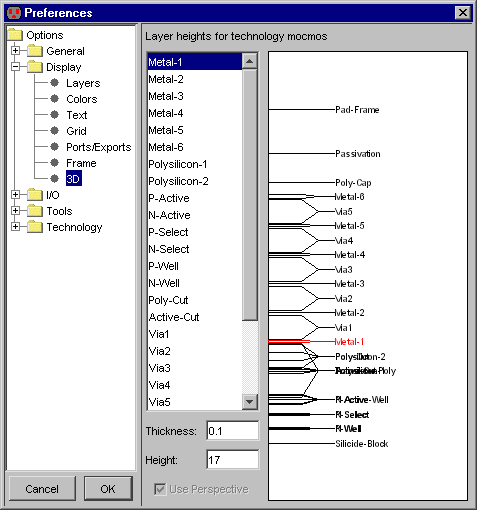
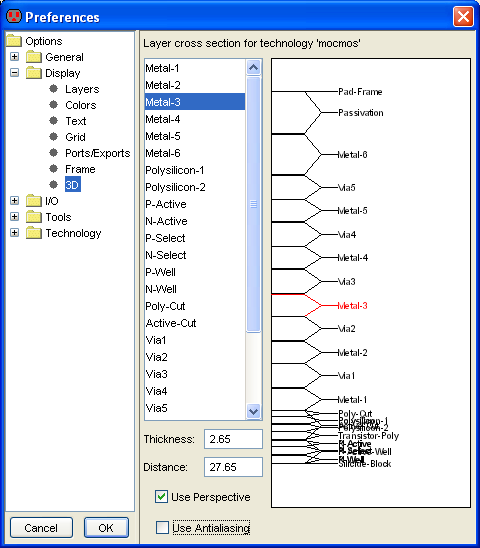
Antialiasing option and lights in 3D view
git-svn-id: https://svn.java.net/svn/electric~svn/trunk@1611 b64ed6c1-75a8-e629-b1da-d0dae74a743a

diff --git a/srcj/com/sun/electric/tool/user/help/helphtml/chap04-11.html b/srcj/com/sun/electric/tool/user/help/helphtml/chap04-11.html
@@ -19,7 +19,11 @@ See <A HREF="chap01-05.html#chap01-05">Section 1-5</A> for details about Electri
 To see a circuit in 3D, use the <B>3D Display</B> command (in menu <B>Window</B>).
 The circuit is displayed in 3D, and mouse movements will rotate, pan, or zoom the circuit.
 Use the left button to rotate and the right button for panning. To zoom in drag the left button by pressing 
-<ALT> key in one direction and the opposite to zoom out. 
+"Alt" key in one direction and the opposite to zoom out.
+<P>
+Two view modes are available: perspective (default) and parallel views. Unselect radio box "Use Perspective" 
+to switch to parallel mode. If available, antialiasing can be turned on by clicking on radio box "Use Antialiasing".
+Due to performance issues, antialiasing is not on by default.
 <P>
 For optimal 3D viewing, the circuit should be centered in the window before issuing the
 <B>3D Display</B> command. 

diff --git a/srcj/com/sun/electric/plugins/j3d/View3DWindow.java b/srcj/com/sun/electric/plugins/j3d/View3DWindow.java
@@ -44,6 +44,7 @@ import com.sun.j3d.utils.universe.SimpleUniverse;
 import com.sun.j3d.utils.universe.ViewingPlatform;
 import com.sun.j3d.utils.geometry.GeometryInfo;
 import com.sun.j3d.utils.geometry.Primitive;
+import com.sun.j3d.utils.geometry.NormalGenerator;
 import com.sun.j3d.utils.behaviors.vp.OrbitBehavior;
 import com.sun.j3d.utils.picking.PickTool;
 import com.sun.j3d.utils.picking.PickResult;
@@ -93,8 +94,11 @@ public class View3DWindow extends JPanel
 	private PickCanvas pickCanvas;
 
 	// Done only once.
-	private static Appearance cellApp = new Appearance();
-	static {
+	/** cell has a unique appearance **/                    private static Appearance cellApp = new Appearance();
+    /** standard colors to be used by materials **/         private static Color3f black = new Color3f(0.0f, 0.0f, 0.0f);
+	/** standard colors to be used by materials **/         private static Color3f white = new Color3f(1.0f, 1.0f, 1.0f);
+
+    static {
 
 		Color3f objColor = new Color3f(Color.GRAY);
 		ColoringAttributes ca = new ColoringAttributes();
@@ -144,8 +148,6 @@ public class View3DWindow extends JPanel
 		add("Center", canvas);
 		canvas.addMouseListener(this);
 
-		System.out.println("Canvas3D supports antialiasing " + canvas.getSceneAntialiasingAvailable());
-
 		// Create a simple scene and attach it to the virtual universe
 		BranchGroup scene = createSceneGraph(cell, infiniteBounds);
 		u = new SimpleUniverse(canvas);
@@ -181,7 +183,8 @@ public class View3DWindow extends JPanel
 		View view = u.getViewer().getView();
 
 		// Too expensive at this point
-		//view.setSceneAntialiasingEnable(true);
+        if (canvas.getSceneAntialiasingAvailable() && User.is3DAntialiasing())
+		    view.setSceneAntialiasingEnable(true);
 
 		// Setting the projection policy
 		view.setProjectionPolicy(User.is3DPerspective()? View.PERSPECTIVE_PROJECTION : View.PARALLEL_PROJECTION);
@@ -261,16 +264,19 @@ public class View3DWindow extends JPanel
 			addArc((ArcInst)arcs.next(), objTrans);
 		}
 
-		// Light
-		Vector3f lightDir = new Vector3f(0.0f, 0.0f, -1.0f);
-		Color3f white = new Color3f(0.7f, 0.7f, 0.0f);
+		// Lights
+        Color3f alColor = new Color3f(0.7f, 0.7f, 0.7f);
+        AmbientLight aLgt = new AmbientLight(alColor);
+		Vector3f lightDir = new Vector3f(-1.0f, -1.0f, -1.0f);
 		DirectionalLight light = new DirectionalLight(white, lightDir);
 
 		// Setting the influencing bounds
 		light.setInfluencingBounds(infiniteBounds);
+	    aLgt.setInfluencingBounds(infiniteBounds);
 		// Allow to turn off light while the scene graph is live
 		light.setCapability(Light.ALLOW_STATE_WRITE);
 		// Add light to the env.
+        objTrans.addChild(aLgt);
 		objTrans.addChild(light);
 
 		// Picking tools
@@ -405,35 +411,37 @@ public class View3DWindow extends JPanel
 	public void addPolyhedron(Rectangle2D bounds, double distance, double thickness,
 	                          Appearance ap, TransformGroup objTrans)
 	{
-			GeometryInfo gi = new GeometryInfo(GeometryInfo.QUAD_ARRAY);
-			double height = thickness + distance;
-			Point3d[] pts = new Point3d[8];
-			pts[0] = new Point3d(bounds.getMinX(), bounds.getMinY(), distance);
-			pts[1] = new Point3d(bounds.getMinX(), bounds.getMaxY(), distance);
-			pts[2] = new Point3d(bounds.getMaxX(), bounds.getMaxY(), distance);
-			pts[3] = new Point3d(bounds.getMaxX(), bounds.getMinY(), distance);
-			pts[4] = new Point3d(bounds.getMinX(), bounds.getMinY(), height);
-			pts[5] = new Point3d(bounds.getMinX(), bounds.getMaxY(), height);
-			pts[6] = new Point3d(bounds.getMaxX(), bounds.getMaxY(), height);
-			pts[7] = new Point3d(bounds.getMaxX(), bounds.getMinY(), height);
-			int[] indices = {0, 1, 2, 3, /* bottom z */
-			                 0, 4, 5, 1, /* back y */
-			                 0, 3, 7, 4, /* back x */
-			                 1, 5, 6, 2, /* front x */
-			                 2, 6, 7, 3, /* front y */
-			                 4, 7, 6, 5}; /* top z */
-			gi.setCoordinates(pts);
-			gi.setCoordinateIndices(indices);
-			GeometryArray c = gi.getGeometryArray();
-            c.setCapability(GeometryArray.ALLOW_INTERSECT);
+        GeometryInfo gi = new GeometryInfo(GeometryInfo.QUAD_ARRAY);
+        double height = thickness + distance;
+        Point3d[] pts = new Point3d[8];
+        pts[0] = new Point3d(bounds.getMinX(), bounds.getMinY(), distance);
+        pts[1] = new Point3d(bounds.getMinX(), bounds.getMaxY(), distance);
+        pts[2] = new Point3d(bounds.getMaxX(), bounds.getMaxY(), distance);
+        pts[3] = new Point3d(bounds.getMaxX(), bounds.getMinY(), distance);
+        pts[4] = new Point3d(bounds.getMinX(), bounds.getMinY(), height);
+        pts[5] = new Point3d(bounds.getMinX(), bounds.getMaxY(), height);
+        pts[6] = new Point3d(bounds.getMaxX(), bounds.getMaxY(), height);
+        pts[7] = new Point3d(bounds.getMaxX(), bounds.getMinY(), height);
+        int[] indices = {0, 1, 2, 3, /* bottom z */
+                         0, 4, 5, 1, /* back y */
+                         0, 3, 7, 4, /* back x */
+                         1, 5, 6, 2, /* front x */
+                         2, 6, 7, 3, /* front y */
+                         4, 7, 6, 5}; /* top z */
+        gi.setCoordinates(pts);
+        gi.setCoordinateIndices(indices);
+        NormalGenerator ng = new NormalGenerator();
+        ng.generateNormals(gi);
+        GeometryArray c = gi.getGeometryArray();
+        c.setCapability(GeometryArray.ALLOW_INTERSECT);
 
-			//cubeTrans.addChild(new Shape3D(c, ap));
-			Shape3D box = new Shape3D(c, ap);
-			box.setCapability(Shape3D.ENABLE_PICK_REPORTING);
-			box.setCapability(Node.ALLOW_LOCAL_TO_VWORLD_READ);
-            box.setCapability(Shape3D.ALLOW_PICKABLE_READ);
-			PickTool.setCapabilities(box, PickTool.INTERSECT_FULL);
-			objTrans.addChild(box);
+        //cubeTrans.addChild(new Shape3D(c, ap));
+        Shape3D box = new Shape3D(c, ap);
+        box.setCapability(Shape3D.ENABLE_PICK_REPORTING);
+        box.setCapability(Node.ALLOW_LOCAL_TO_VWORLD_READ);
+        box.setCapability(Shape3D.ALLOW_PICKABLE_READ);
+        PickTool.setCapabilities(box, PickTool.INTERSECT_FULL);
+        objTrans.addChild(box);
 	}
 
 	/**
@@ -475,7 +483,7 @@ public class View3DWindow extends JPanel
 				ap.setColoringAttributes(ca);
 
 				TransparencyAttributes ta = new TransparencyAttributes();
-				ta.setTransparencyMode(TransparencyAttributes.SCREEN_DOOR);
+				ta.setTransparencyMode(TransparencyAttributes.BLENDED);
 				ta.setTransparency(0.5f);
 				//ap.setTransparencyAttributes(ta);
 
@@ -483,7 +491,7 @@ public class View3DWindow extends JPanel
 				PolygonAttributes pa = new PolygonAttributes();
 				pa.setCullFace(PolygonAttributes.CULL_NONE);
 				//pa.setPolygonMode(PolygonAttributes.POLYGON_LINE);
-				//ap.setPolygonAttributes(pa);
+				ap.setPolygonAttributes(pa);
 
 				TextureAttributes texAttr = new TextureAttributes();
 				texAttr.setTextureMode(TextureAttributes.MODULATE);
@@ -494,8 +502,8 @@ public class View3DWindow extends JPanel
 				lineAttr.setLineAntialiasingEnable(true);
 				ap.setLineAttributes(lineAttr);
 
-				// Adding to internal map
-				Material mat = new Material();
+				// Adding to internal material
+				Material mat = new Material(objColor, black, objColor, white, 30.0f);
                 mat.setLightingEnable(true);
                 ap.setMaterial(mat);
 				

diff --git a/srcj/com/sun/electric/tool/user/dialogs/options/ThreeDTab.java b/srcj/com/sun/electric/tool/user/dialogs/options/ThreeDTab.java
@@ -69,6 +69,7 @@ public class ThreeDTab extends PreferencePanel
 	public String getName() { return "3D"; }
 
 	private boolean initial3DPerspective;
+    private boolean initial3DAntialiasing; // to turn on antialising if available. No by default because of performance.
 	private boolean initial3DTextChanging = false;
 	private JList threeDLayerList;
 	private DefaultListModel threeDLayerModel;
@@ -120,6 +121,8 @@ public class ThreeDTab extends PreferencePanel
 
 		initial3DPerspective = User.is3DPerspective();
 		threeDPerspective.setSelected(initial3DPerspective);
+        initial3DAntialiasing = User.is3DAntialiasing();
+        threeDAntialiasing.setSelected(initial3DAntialiasing);
 
 		// not yet
 		//threeDPerspective.setEnabled(false);
@@ -154,25 +157,6 @@ public class ThreeDTab extends PreferencePanel
 					lowHeight = valLow;
 				if (valHig > highHeight)
 					highHeight = valHig;
-
-				/*
-				if (first)
-				{
-					//lowHeight = distance.doubleValue() - thickness.doubleValue()/2;
-					//highHeight = distance.doubleValue() + thickness.doubleValue()/2;
-					lowHeight = valLow;
-					highHeight = valHig;
-					first = false;
-				} else
-				{
-					// lowHeight, highHeight might be never less than 0
-
-					if (distance.doubleValue() - thickness.doubleValue()/2 < lowHeight)
-						lowHeight = distance.doubleValue() - thickness.doubleValue()/2;
-					if (distance.doubleValue() + thickness.doubleValue()/2 > highHeight)
-						highHeight = distance.doubleValue() + thickness.doubleValue()/2;
-				}
-				*/
 			}
 			lowHeight -= 4;
 			highHeight += 4;
@@ -347,6 +331,10 @@ public class ThreeDTab extends PreferencePanel
 		boolean currentPerspective = threeDPerspective.isSelected();
 		if (currentPerspective != initial3DPerspective)
 			User.set3DPerspective(currentPerspective);
+
+        boolean currentAntialiasing = threeDAntialiasing.isSelected();
+		if (currentAntialiasing != initial3DAntialiasing)
+			User.set3DAntialiasing(currentAntialiasing);
 	}
 
 	/** This method is called from within the constructor to
@@ -365,6 +353,7 @@ public class ThreeDTab extends PreferencePanel
         threeDThickness = new javax.swing.JTextField();
         threeDHeight = new javax.swing.JTextField();
         threeDPerspective = new javax.swing.JCheckBox();
+        threeDAntialiasing = new javax.swing.JCheckBox();
 
         getContentPane().setLayout(new java.awt.GridBagLayout());
 
@@ -437,6 +426,14 @@ public class ThreeDTab extends PreferencePanel
         gridBagConstraints.insets = new java.awt.Insets(4, 4, 4, 4);
         threeD.add(threeDPerspective, gridBagConstraints);
 
+        threeDAntialiasing.setText("Use Antialiasing");
+        gridBagConstraints = new java.awt.GridBagConstraints();
+        gridBagConstraints.gridx = 0;
+        gridBagConstraints.gridy = 5;
+        gridBagConstraints.gridwidth = 2;
+        gridBagConstraints.insets = new java.awt.Insets(4, 4, 4, 4);
+        threeD.add(threeDAntialiasing, gridBagConstraints);
+
         getContentPane().add(threeD, new java.awt.GridBagConstraints());
 
         pack();
@@ -453,6 +450,7 @@ public class ThreeDTab extends PreferencePanel
     private javax.swing.JLabel jLabel45;
     private javax.swing.JLabel jLabel47;
     private javax.swing.JPanel threeD;
+    private javax.swing.JCheckBox threeDAntialiasing;
     private javax.swing.JTextField threeDHeight;
     private javax.swing.JScrollPane threeDLayerPane;
     private javax.swing.JCheckBox threeDPerspective;

diff --git a/srcj/com/sun/electric/tool/user/User.java b/srcj/com/sun/electric/tool/user/User.java
@@ -1149,6 +1149,19 @@ public class User extends Listener
 	 */
 	public static void set3DPerspective(boolean on) { cache3DPerspective.setBoolean(on); }
 
+    private static Pref cache3DAntialiasing = Pref.makeBooleanPref("Antialiasing3D", User.tool.prefs, false);
+	/**
+	 * Method to tell whether to use antialiasing in 3D view.
+	 * The default is "false" due to performance.
+	 * @return true to draw 3D views with perspective.
+	 */
+	public static boolean is3DAntialiasing() { return cache3DAntialiasing.getBoolean(); }
+	/**
+	 * Method to set whether to draw 3D views with perspective.
+	 * @param on true to draw 3D views with perspective.
+	 */
+	public static void set3DAntialiasing(boolean on) { cache3DAntialiasing.setBoolean(on); }
+
 	private static Pref cachePlayClickSoundsWhenCreatingArcs = Pref.makeBooleanPref("PlayClickSoundsWhenCreatingArcs", User.tool.prefs, true);
 	/**
 	 * Method to tell whether to play a "click" sound when an arc is created.
